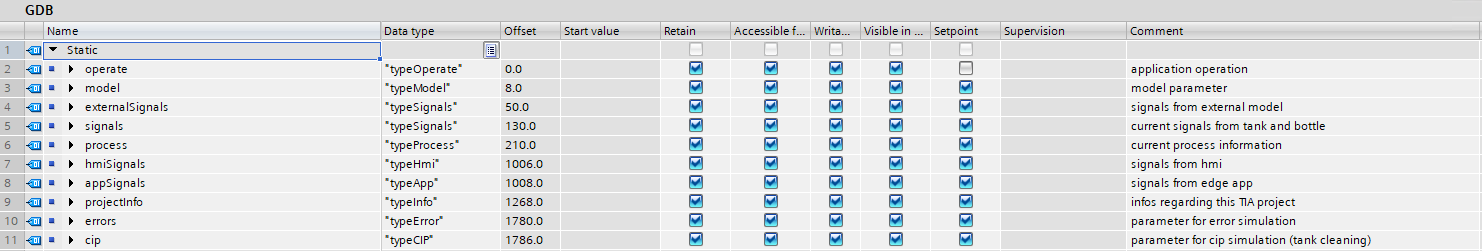
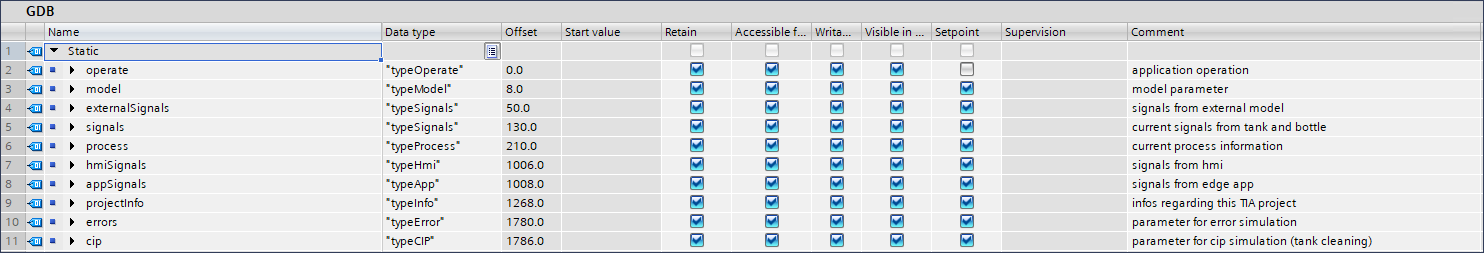
updates

diff --git a/tank application/README.md b/tank application/README.md
@@ -278,11 +278,29 @@ It is possible to manually simulate an energy consumption improvement within the
 
  - *GDB.hmiSignals.HMI_RenewHeatingElement*
 
- In this case the electricity consumption for the tank heating state is reduced.
+ In this case the electricity consumption for the tank heating state is reduced (*GDB.signals.energySignals.energyConsumptionHeatingTank*).
 
 ### Energy consumption per machine state
 
-xxx
+The standard specifies 6 machine states:  
+
+1 = Powering up  
+2 = Powering down  
+3 = Off  
+4 = Standby  
+5 = Operational  
+6 = Working  
+
+This PLC project randomly simulates values for each of them (without any reference to the filling process). These values can be used for the Use Case [Energy Efficiency Monitoring with Industrial Edge](#energy-efficiency-monitoring-with-industrial-edge).
+
+- *GDB.signals.energySignalsPerState.stateId*
+- *GDB.signals.energySignalsPerState.energyConsumptionStatePoweringUp*
+- *GDB.signals.energySignalsPerState.energyConsumptionStatePoweringDown*
+- *GDB.signals.energySignalsPerState.energyConsumptionStateOff*
+- *GDB.signals.energySignalsPerState.energyConsumptionStateStandby*
+- *GDB.signals.energySignalsPerState.energyConsumptionStateOperational*
+- *GDB.signals.energySignalsPerState.energyConsumptionStateWorking*
+- *GDB.signals.energySignalsPerState.energyConsumptionStateTotal*
 
 ## Edge use cases
 
@@ -432,6 +450,22 @@ This example shows how to centrally send data from the field level (several edge
 The related How To can be found [here](https://github.com/industrial-edge/notifier-api).
 
 This guide shows how to use the Notifier OpenAPI in different ways. The API is implemented within an user-developed app to send notifications to the Notifier.
+
+## Energy Efficiency Monitoring with Industrial Edge
+
+Summarized energy values for a machine are delivered via one PLC parameter:
+
+*GDB.signals.energySignalsPerState.energyConsumptionStateTotal*
+
+The dedicated machine state is also delivered via a PLC parameter:
+
+*GDB.signals.energySignalsPerState.stateId*
+
+Within IIH Essentials, a transformation function is used: Depending on the machine state, the energy value is written to a dedicated IIH variable (a separate variable for each state).
+
+Finally, these status variables will be shown in an overview dashboard within Energy Manager:
+
+![EE Monitoring](graphics/EE_Monitoring.png)
 
 ## Contribution
 
